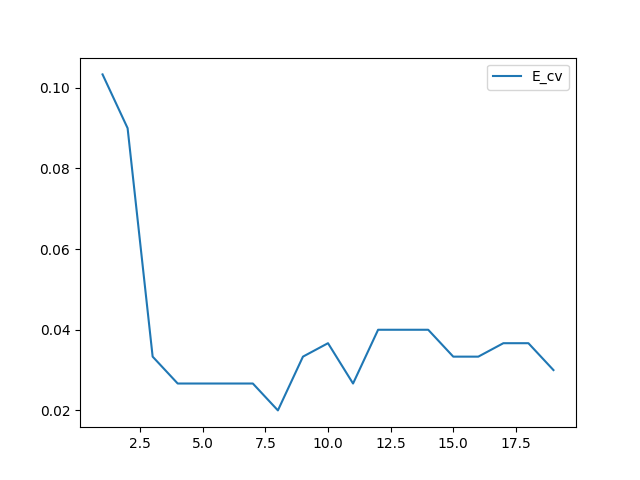
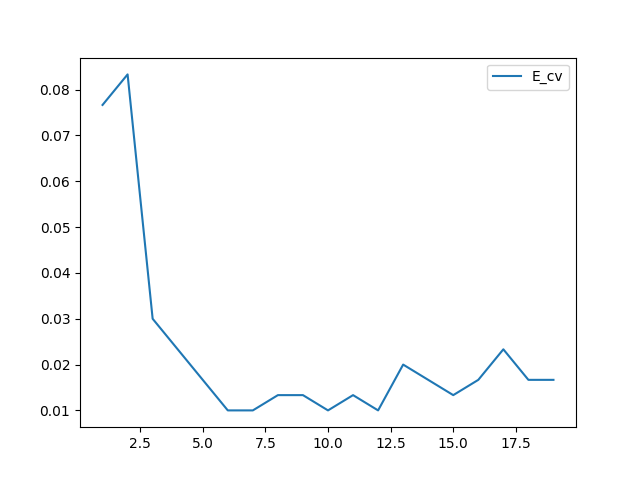
:

diff --git a/hw11/hw.tex b/hw11/hw.tex
@@ -30,20 +30,20 @@
 	\section*{2}
 	\subsection*{(a)}
 		\includegraphics[scale=0.8]{2a.png}\\
-		The optimal $k$ is 8.
+		The optimal $k$ is 12.
 	\subsection*{(b)}
 		Note: blue is 1, red is not 1.\\
 		\includegraphics[scale=0.8]{2b.png}\\
-		$E_\text{in} \approx 0.0267$\\
-		$E_\text{cv} \approx 0.0200$
+		$E_\text{in} \approx 0.0067$\\
+		$E_\text{cv} \approx 0.0100$
 	\subsection*{(c)}
-		$E_\text{test} \approx 0.0156$
+		$E_\text{test} \approx 0.0139$
 		
 	\section*{3}
-		Recall from the linear model, $E_\text{test} \approx 0.0111$, which is less than $k$-NN ($0.0127$), which is less than RBF ($0.0156$).\\
+		Recall from the linear model, $E_\text{test} \approx 0.0111$, which is less than $k$-NN ($0.0127$), which is less than RBF ($0.0139$).\\
 		However, I believe that k-NN is still the best model for this problem becaues the shape of the linear model's boundary (shown below) looks like there's still some overfitting going on, while $k$-NN's boundary looks very smooth and matches my expectation.\\
 		\includegraphics[scale=0.8]{../hw09/3.png}\\
 		This is the result of the 2 features I picked, which are not particularly good for this problem, but $k$-NN resists this flaw by taking the majority of the votes so those outliers don't affect the classification of the test points when $k$ is not too small.\\
-		For the same reason, RBF is also not as good as $k$-NN because outliers also more or less affect the classifications. As you can see in the plot in 2(b), the blue region on the upper right corner is probably the result of an outlier 1 being one of the centers.
+		For the same reason, RBF is also not as good as $k$-NN because all the data points are used for classification, which gives outliers a chance to influence the classification to some extent. This is shown in the decision boundary.
 		
 \end{document}

diff --git a/hw11/rbf.py b/hw11/rbf.py
@@ -65,8 +65,7 @@ if __name__ == '__main__':
 
     k_best = 0
     e_best = 1
-    c_best = None
-    w_best = None
+
     for k in ks:
         e = 0
         for i in range(len(d_train)):
@@ -82,8 +81,9 @@ if __name__ == '__main__':
         if e <= e_best:
             e_best = e
             k_best = k
-            w_best = w
-            c_best = centers
+
+    c_best = k_center([d[0] for d in d_train], k_best)
+    w_best = regression([[1] + transform(d[0], c_best) for d in d_train], [d[1] for d in d_train])
     print('best k:', k_best)
     print('cv error:', e_best)
     print('E_in:', error(d_train, w_best, c_best))
